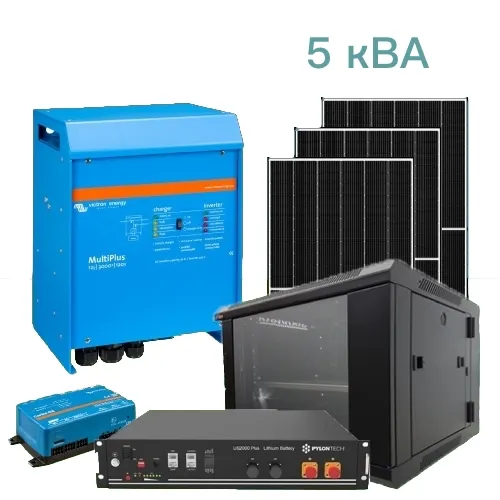
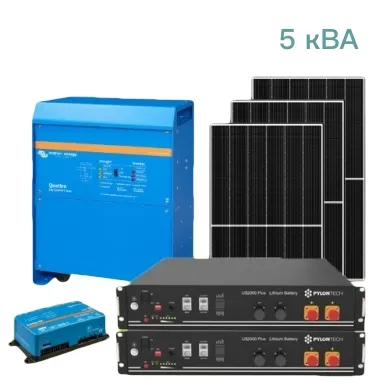
update-photo

diff --git a/src/components/Solution/Solution.jsx b/src/components/Solution/Solution.jsx
@@ -5,8 +5,24 @@ import 'swiper/css';
 import 'swiper/css/free-mode';
 import 'swiper/css/pagination';
 
-import imgJpg_1 from '../../img/solution/solution-2.jpg';
+import imgJpg_1 from '../../img/solution/solution-1.jpg';
 import imgWebp_1 from '../../img/solution/solution-1.webp';
+import imgJpg_2 from '../../img/solution/solution-2.jpg';
+import imgWebp_2 from '../../img/solution/solution-2.webp';
+import imgJpg_3 from '../../img/solution/solution-3.jpg';
+import imgWebp_3 from '../../img/solution/solution-3.webp';
+import imgJpg_4 from '../../img/solution/solution-4.jpg';
+import imgWebp_4 from '../../img/solution/solution-4.webp';
+import imgJpg_5 from '../../img/solution/solution-5.jpg';
+import imgWebp_5 from '../../img/solution/solution-5.webp';
+import imgJpg_6 from '../../img/solution/solution-6.jpg';
+import imgWebp_6 from '../../img/solution/solution-6.webp';
+import imgJpg_7 from '../../img/solution/solution-7.jpg';
+import imgWebp_7 from '../../img/solution/solution-7.webp';
+import imgJpg_8 from '../../img/solution/solution-8.jpg';
+import imgWebp_8 from '../../img/solution/solution-8.webp';
+import imgJpg_9 from '../../img/solution/solution-9.jpg';
+import imgWebp_9 from '../../img/solution/solution-9.webp';
 
 import {
   SolutionInner,
@@ -17,6 +33,7 @@ import {
   Title,
   BuyBtn,
   CustomNavigation,
+  SwiperSlideS,
 } from './Solution.styled';
 import { Icon } from 'components/Icon/Icon';
 import useWindowWidth from '../../services/widthScreen';
@@ -55,71 +72,111 @@ export const Solution = () => {
         modules={[FreeMode, Navigation]}
         className="mySwiper"
       >
-        <SwiperSlide>
+        <SwiperSlideS>
           <Slide>
             <picture>
               <source type="image/webp" srcSet={imgWebp_1} />
               <source type="image/jpg" srcSet={imgJpg_1} />
-              <Img src={imgJpg_1} loading="lazy" width="500" height="500" />
+              <Img src={imgJpg_1} loading="lazy" width="390" height="390" />
             </picture>
             <Title>
               Акумуляторна система живлення Victron Energy Quattro 5 кВА
             </Title>
             <BuyBtn>11 768$</BuyBtn>
           </Slide>
-        </SwiperSlide>
-        <SwiperSlide>
+        </SwiperSlideS>
+        <SwiperSlideS>
           <Slide>
             <picture>
-              <source type="image/webp" srcSet={imgWebp_1} />
-              <source type="image/jpg" srcSet={imgJpg_1} />
-              <Img src={imgJpg_1} loading="lazy" width="500" height="500" />
+              <source type="image/webp" srcSet={imgWebp_5} />
+              <source type="image/jpg" srcSet={imgJpg_5} />
+              <Img src={imgJpg_5} loading="lazy" width="390" height="390" />
+            </picture>
+            <Title>Сонячна електростанція 5 кВт</Title>
+            <BuyBtn>11 768$</BuyBtn>
+          </Slide>
+        </SwiperSlideS>
+        <SwiperSlideS>
+          <Slide>
+            <picture>
+              <source type="image/webp" srcSet={imgWebp_2} />
+              <source type="image/jpg" srcSet={imgJpg_2} />
+              <Img src={imgJpg_2} loading="lazy" width="390" height="390" />
+            </picture>
+            <Title>Акумуляторна система живлення Victron Energy 9 кВА</Title>
+            <BuyBtn>11 768$</BuyBtn>
+          </Slide>
+        </SwiperSlideS>
+        <SwiperSlideS>
+          <Slide>
+            <picture>
+              <source type="image/webp" srcSet={imgWebp_6} />
+              <source type="image/jpg" srcSet={imgJpg_6} />
+              <Img src={imgJpg_6} loading="lazy" width="390" height="390" />
+            </picture>
+            <Title>Сонячна електростанція 10 кВт</Title>
+            <BuyBtn>11 768$</BuyBtn>
+          </Slide>
+        </SwiperSlideS>
+        <SwiperSlideS>
+          <Slide>
+            <picture>
+              <source type="image/webp" srcSet={imgWebp_3} />
+              <source type="image/jpg" srcSet={imgJpg_3} />
+              <Img src={imgJpg_3} loading="lazy" width="390" height="390" />
             </picture>
             <Title>
-              Акумуляторна система живлення Victron Energy Quattro 5 кВА
+              Акумуляторна система живлення Victron Energy Quattro 15 кВА
             </Title>
             <BuyBtn>11 768$</BuyBtn>
           </Slide>
-        </SwiperSlide>
-        <SwiperSlide>
+        </SwiperSlideS>
+        <SwiperSlideS>
           <Slide>
             <picture>
-              <source type="image/webp" srcSet={imgWebp_1} />
-              <source type="image/jpg" srcSet={imgJpg_1} />
-              <Img src={imgJpg_1} loading="lazy" width="500" height="500" />
+              <source type="image/webp" srcSet={imgWebp_7} />
+              <source type="image/jpg" srcSet={imgJpg_7} />
+              <Img src={imgJpg_7} loading="lazy" width="390" height="390" />
+            </picture>
+            <Title>Сонячна електростанція 15 кВт</Title>
+            <BuyBtn>11 768$</BuyBtn>
+          </Slide>
+        </SwiperSlideS>
+        <SwiperSlideS>
+          <Slide>
+            <picture>
+              <source type="image/webp" srcSet={imgWebp_4} />
+              <source type="image/jpg" srcSet={imgJpg_4} />
+              <Img src={imgJpg_4} loading="lazy" width="390" height="390" />
             </picture>
             <Title>
-              Акумуляторна система живлення Victron Energy Quattro 5 кВА
+              Акумуляторна система живлення Victron Energy Quattro 30 кВА
             </Title>
             <BuyBtn>11 768$</BuyBtn>
           </Slide>
-        </SwiperSlide>
-        <SwiperSlide>
+        </SwiperSlideS>
+        <SwiperSlideS>
           <Slide>
             <picture>
-              <source type="image/webp" srcSet={imgWebp_1} />
-              <source type="image/jpg" srcSet={imgJpg_1} />
-              <Img src={imgJpg_1} loading="lazy" width="500" height="500" />
+              <source type="image/webp" srcSet={imgWebp_8} />
+              <source type="image/jpg" srcSet={imgJpg_8} />
+              <Img src={imgJpg_8} loading="lazy" width="390" height="390" />
             </picture>
-            <Title>
-              Акумуляторна система живлення Victron Energy Quattro 5 кВА
-            </Title>
+            <Title>Сонячна електростанція 20 кВт ціна на похилу покрівлю</Title>
             <BuyBtn>11 768$</BuyBtn>
           </Slide>
-        </SwiperSlide>
-        <SwiperSlide>
+        </SwiperSlideS>
+        <SwiperSlideS>
           <Slide>
             <picture>
-              <source type="image/webp" srcSet={imgWebp_1} />
-              <source type="image/jpg" srcSet={imgJpg_1} />
-              <Img src={imgJpg_1} loading="lazy" width="500" height="500" />
+              <source type="image/webp" srcSet={imgWebp_9} />
+              <source type="image/jpg" srcSet={imgJpg_9} />
+              <Img src={imgJpg_9} loading="lazy" width="390" height="390" />
             </picture>
-            <Title>
-              Акумуляторна система живлення Victron Energy Quattro 5 кВА
-            </Title>
+            <Title>Сонячна електростанція 30 кВт</Title>
             <BuyBtn>11 768$</BuyBtn>
           </Slide>
-        </SwiperSlide>
+        </SwiperSlideS>
       </Swiper>
       <CustomNavigation>
         <div className="swiper-button-prev">

diff --git a/src/components/Solution/Solution.styled.jsx b/src/components/Solution/Solution.styled.jsx
@@ -1,4 +1,9 @@
 import styled from 'styled-components';
+import { SwiperSlide } from 'swiper/react';
+
+export const SwiperSlideS = styled(SwiperSlide)`
+  height: auto;
+`;
 
 export const CustomNavigation = styled.div`
   display: flex;
@@ -95,8 +100,8 @@ export const Slide = styled.div`
   padding: 5px;
   display: flex;
   flex-direction: column;
-  justify-content: center;
   align-items: center;
+  position: relative;
 `;
 
 export const Img = styled.img`
@@ -107,20 +112,8 @@ export const Img = styled.img`
 export const Title = styled.p`
   text-align: center;
   font-size: 18px;
-  margin: 10px 0 30px 0;
+  margin: 10px 0 65px 0;
   position: relative;
-
-  :after {
-    position: absolute;
-    content: '';
-    width: 50px;
-    height: 3px;
-    border-radius: 3px;
-    background-color: ${({ theme }) => theme.color.additional};
-    bottom: -15px;
-    left: 50%;
-    transform: translateX(-50%);
-  }
 
   @media screen and (max-width: 1000px) {
     font-size: 16px;
@@ -128,6 +121,10 @@ export const Title = styled.p`
 `;
 
 export const BuyBtn = styled.button`
+  position: absolute;
+  bottom: -10px;
+  left: 50%;
+  transform: translateX(-50%);
   padding: 7px 25px;
   font-size: 18px;
   background-color: ${({ theme }) => theme.color.second};
@@ -136,6 +133,18 @@ export const BuyBtn = styled.button`
   margin-bottom: 20px;
   cursor: pointer;
   transition: background-color 350ms ease;
+
+  :after {
+    position: absolute;
+    content: '';
+    width: 50px;
+    height: 3px;
+    border-radius: 3px;
+    background-color: ${({ theme }) => theme.color.additional};
+    top: -15px;
+    left: 50%;
+    transform: translateX(-50%);
+  }
 
   :hover {
     background-color: ${({ theme }) => theme.color.additional};

diff --git a/src/components/Team/Team.styled.jsx b/src/components/Team/Team.styled.jsx
@@ -13,6 +13,10 @@ export const SectionTitle = styled.h2`
   font-size: 28px;
   position: relative;
   margin-bottom: 30px;
+  user-select: none;
+  -webkit-user-select: none;
+  -moz-user-select: none;
+  -ms-user-select: none;
 
   :after {
     content: '';
@@ -37,6 +41,10 @@ export const TitleSpan = styled.span`
 export const SetctionText = styled.p`
   text-align: center;
   font-size: 18px;
+  user-select: none;
+  -webkit-user-select: none;
+  -moz-user-select: none;
+  -ms-user-select: none;
   @media screen and (max-width: 768px) {
     font-size: 16px;
   }
@@ -104,6 +112,10 @@ export const TeamImg = styled.img`
   max-width: 270px;
   border-radius: 20px;
   margin-bottom: 15px;
+  user-select: none;
+  -webkit-user-select: none;
+  -moz-user-select: none;
+  -ms-user-select: none;
 `;
 
 export const TeamName = styled.p`

diff --git a/src/components/Team/Team.jsx b/src/components/Team/Team.jsx
@@ -64,8 +64,8 @@ export const Team = () => {
             </picture>
             <TeamName>Павел Рогожа</TeamName>
             <TeamRole>
-              <Icon name="icon-engineer" />
-              <TeamRoleText>Інженер</TeamRoleText>
+              <Icon name="icon-leader" />
+              <TeamRoleText>Управляючий</TeamRoleText>
             </TeamRole>
           </TeamItemInner>
         </TeamItem>
